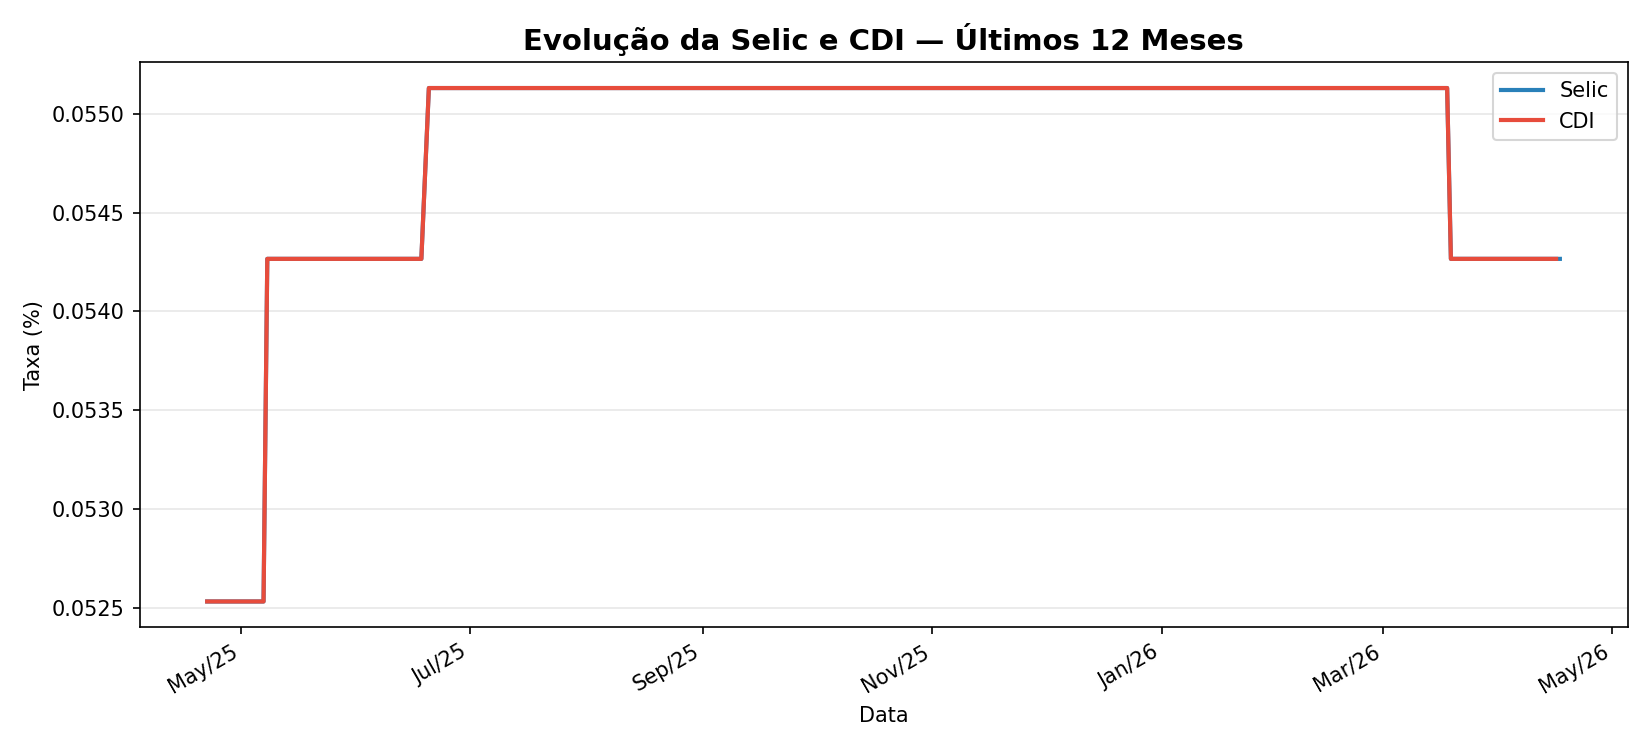
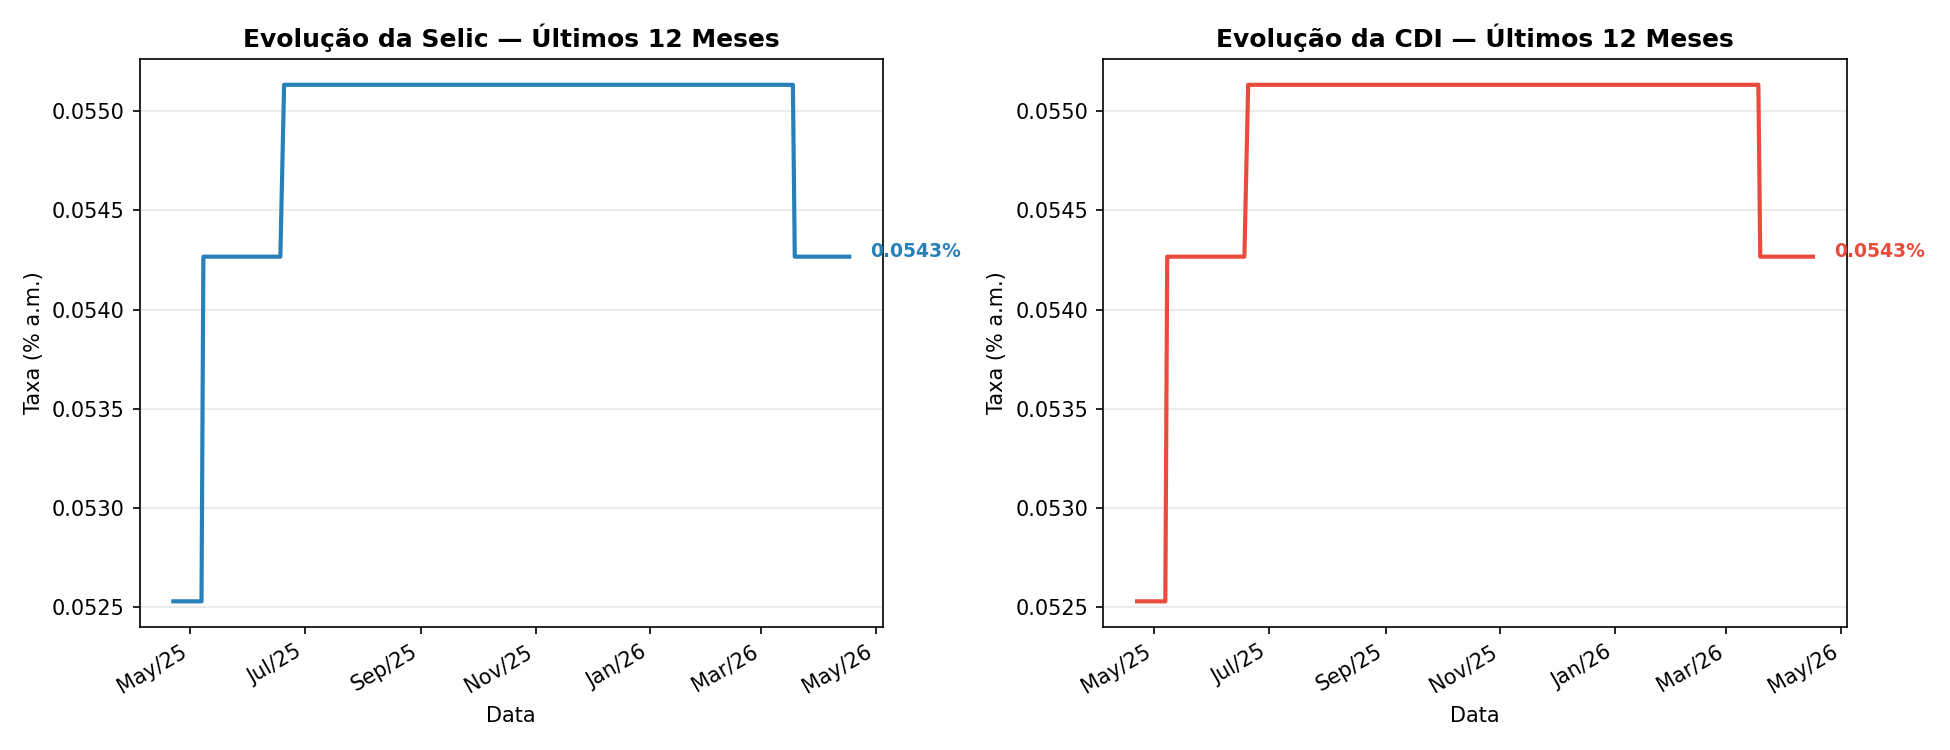
fix: corrige gráfico Selic e CDI em painéis separados

diff --git a/src/gerar_graficos.py b/src/gerar_graficos.py
@@ -86,31 +86,39 @@ def grafico_variacao_mensal(df_ptax):
 
 # ── Gráfico 3 — Selic e CDI ──────────────────────────────
 def grafico_selic_cdi(df_series):
-    fig, ax = plt.subplots()
+    fig, axes = plt.subplots(1, 2, figsize=(13, 5))
 
-    for serie, cor in [("Selic", "#2980b9"), ("CDI", "#e74c3c")]:
+    for ax, serie, cor in [
+        (axes[0], "Selic", "#2980b9"),
+        (axes[1], "CDI",   "#e74c3c")
+    ]:
         grupo = df_series[df_series["serie"] == serie].copy()
         grupo["data"] = pd.to_datetime(grupo["data"])
-        ax.plot(
-            grupo["data"],
-            grupo["valor"],
-            label=serie,
-            color=cor,
-            linewidth=2
-        )
+        ax.plot(grupo["data"], grupo["valor"], color=cor, linewidth=2)
+        ax.set_title(f"Evolução da {serie} — Últimos 12 Meses", fontsize=12, fontweight="bold")
+        ax.set_xlabel("Data")
+        ax.set_ylabel("Taxa (% a.m.)")
+        ax.grid(axis="y", alpha=0.3)
+        ax.xaxis.set_major_formatter(mdates.DateFormatter("%b/%y"))
+        ax.xaxis.set_major_locator(mdates.MonthLocator(interval=2))
+        plt.setp(ax.xaxis.get_majorticklabels(), rotation=30, ha="right")
 
-    formatar_eixo_data(ax)
-    ax.set_title("Evolução da Selic e CDI — Últimos 12 Meses", fontsize=14, fontweight="bold")
-    ax.set_xlabel("Data")
-    ax.set_ylabel("Taxa (%)")
-    ax.legend()
-    ax.grid(axis="y", alpha=0.3)
+        # Valor atual no final da linha
+        ultimo = grupo.iloc[-1]
+        ax.annotate(
+            f"{ultimo['valor']:.4f}%",
+            xy=(ultimo["data"], ultimo["valor"]),
+            xytext=(10, 0),
+            textcoords="offset points",
+            fontsize=9,
+            color=cor,
+            fontweight="bold"
+        )
 
     plt.tight_layout()
     plt.savefig("output/03_selic_cdi.png", dpi=150)
     plt.close()
     print("✅ 03_selic_cdi.png")
-
 
 # ── Gráfico 4 — IPCA acumulado ────────────────────────────
 def grafico_ipca(df_series):
